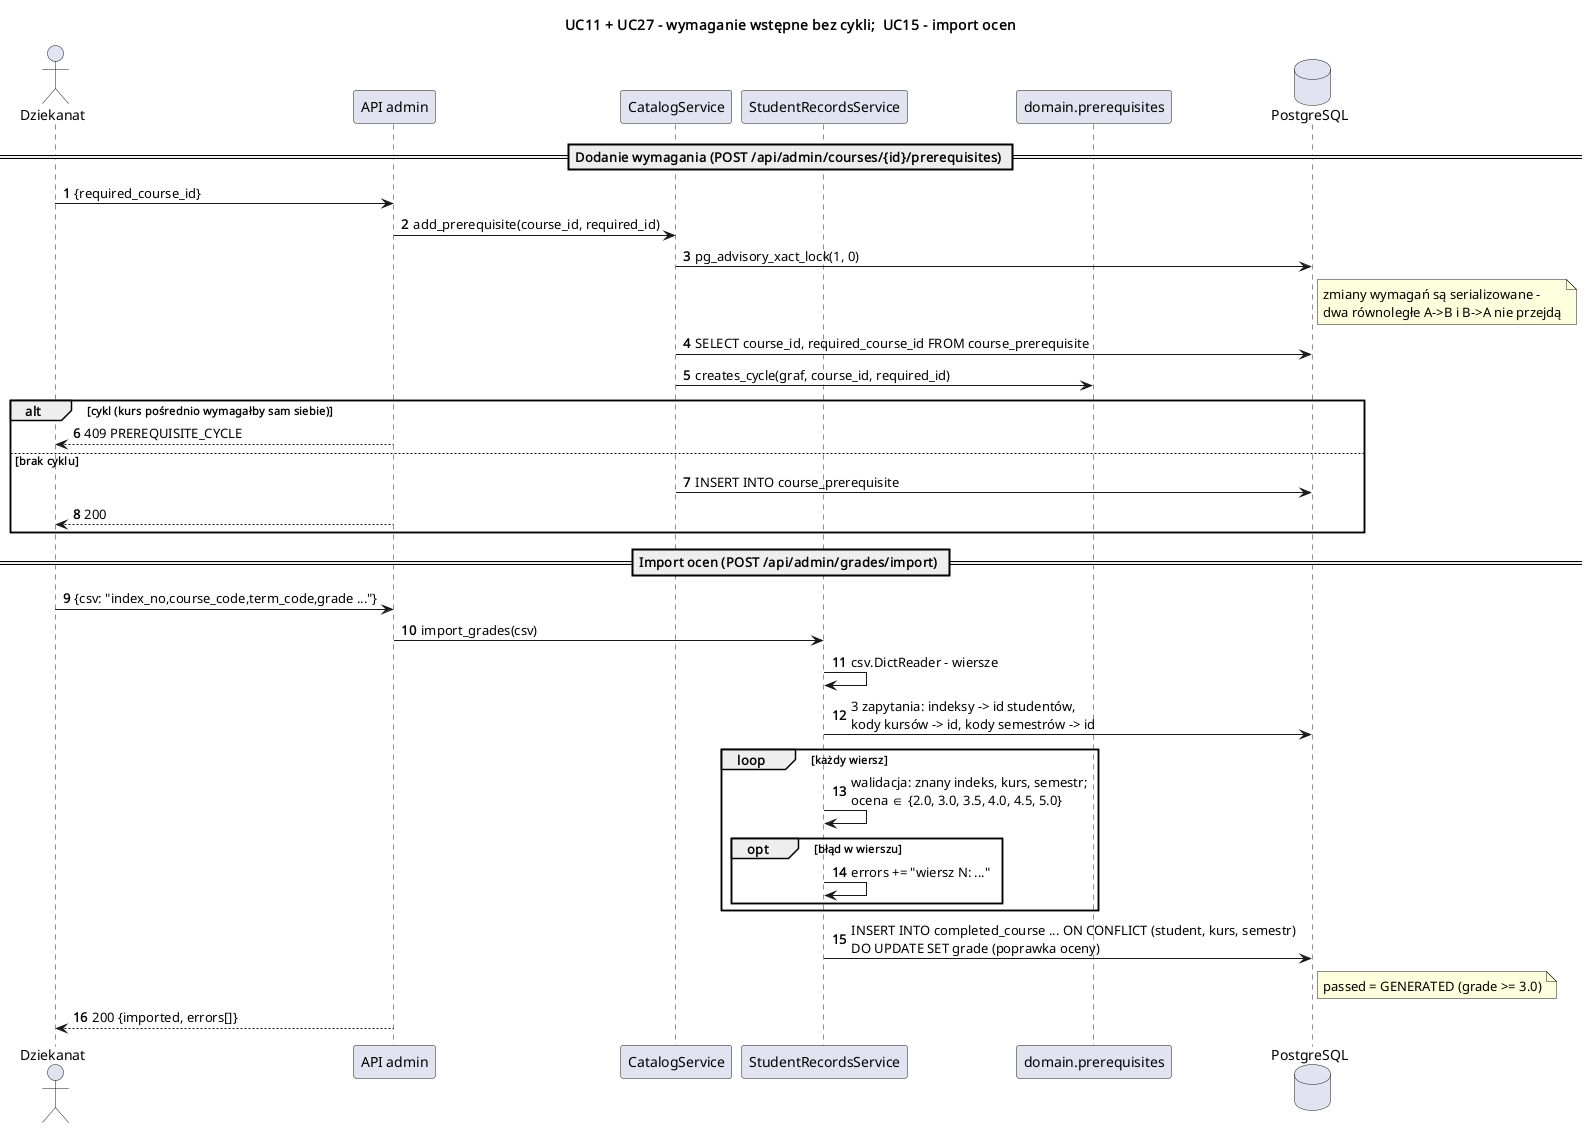
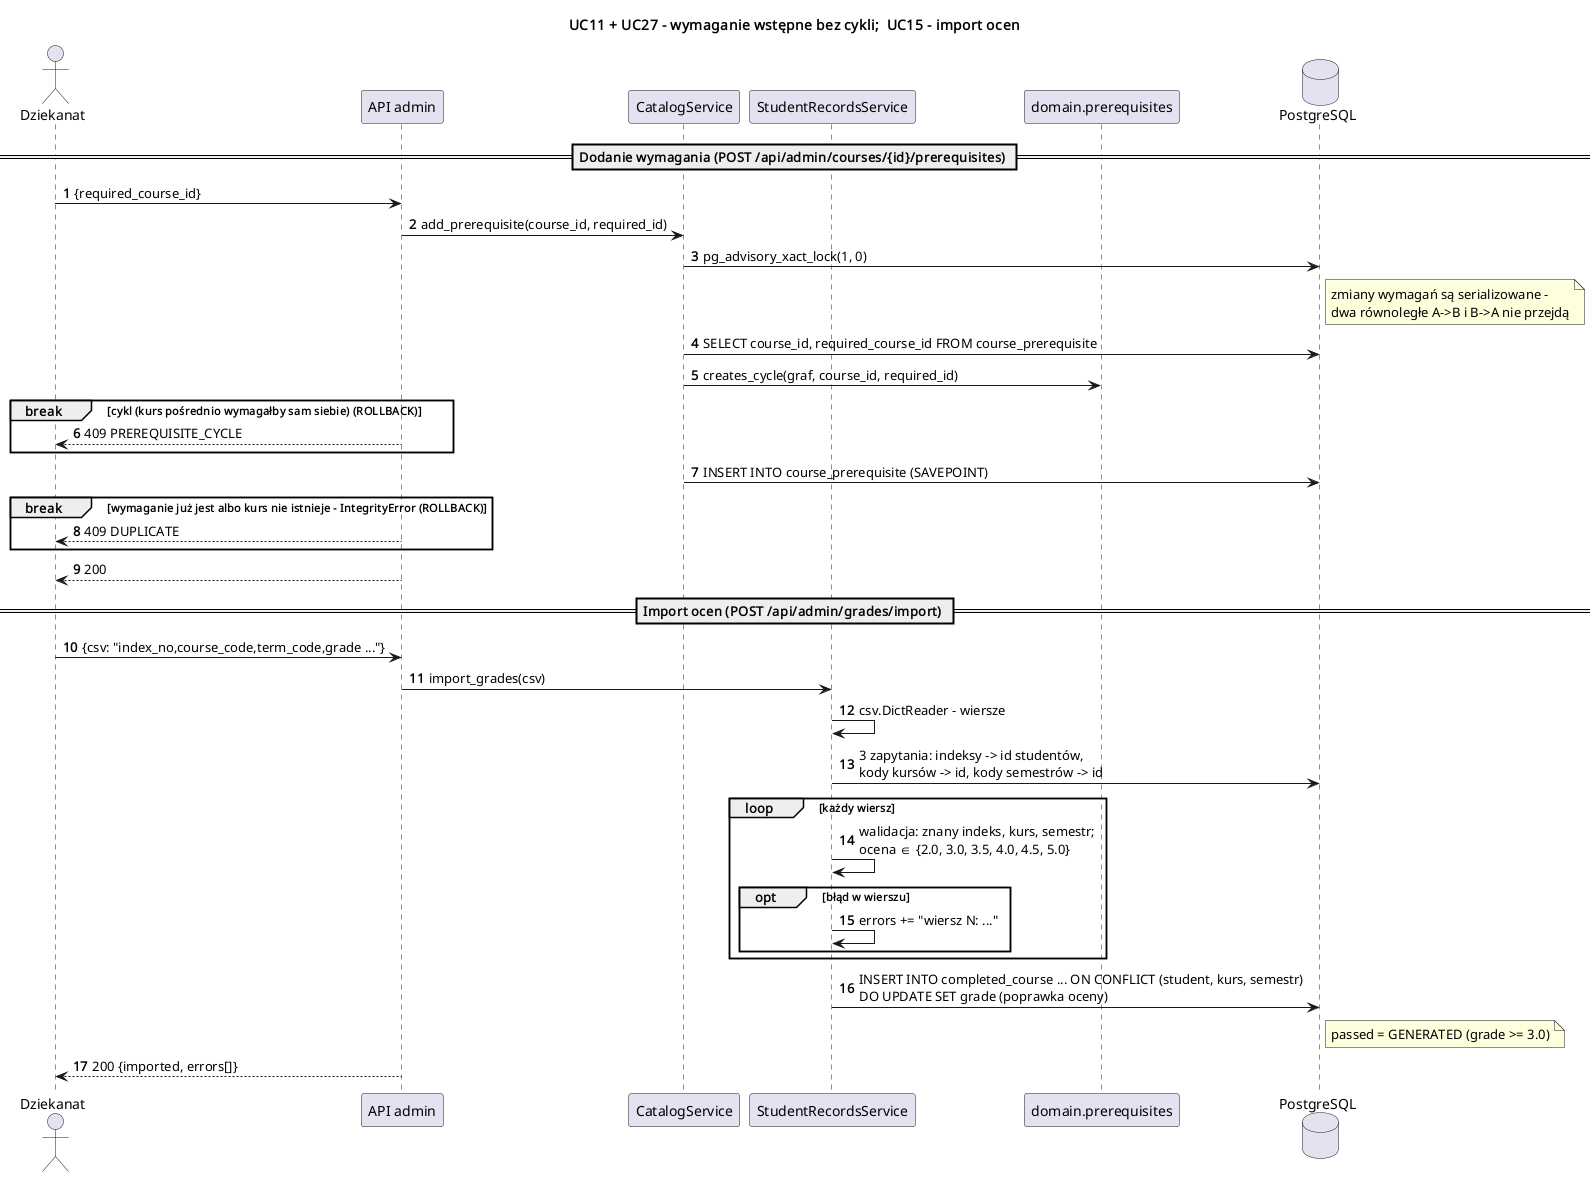
Etap 3: spójność diagramów z kodem i README (recenzja main)
- UC: prowadzący i dziekanat połączeni z UC1 i UC21; UC9 jako <<extend>>
  także dla UC6 (punkt rozszerzenia „zwolnione miejsce”); usunięte
  abstrakcyjne „Operacja studenta/pracownika” – UC0 połączony z aktorami;
  diagram studenta w układzie z góry na dół (smetana ucinał rysunek)
- klasy_infrastruktura: TooManyRequests/Overloaded w app/traffic.py,
  dodane Unauthorized i BadCredentials (401), pełna lista endpointów admina
- klasy_skrot: SeatState.room_seats, Refusal.details
- klasy_serwisy: brakujące metody Loaders i QueryService
- harmonogram: 404 SECTION_NOT_FOUND / ROOM_NOT_FOUND (także README UC12)
- wymagania: 409 DUPLICATE, błędy jako break

diff --git a/etap3/README.md b/etap3/README.md
@@ -108,8 +108,9 @@ osobny proces workera i PostgreSQL jako jedyne źródło prawdy.
 
 ![przypadki użycia – administracja](diagramy/przypadki_uzycia_administracja.png)
 
-Notacja jak w etapie 2: abstrakcyjne *Operacja studenta / pracownika* (uogólnienie, każda
-`<<include>>` UC0), `<<include>>` – zawsze, `<<extend>>` – warunkowo w nazwanym punkcie.
+Notacja: UC0 (logowanie) jest połączony z każdym aktorem-osobą – pozostałe przypadki wymagają
+zalogowania i właściwej roli; `<<include>>` – zawsze, `<<extend>>` – warunkowo w nazwanym punkcie
+(np. UC9 rozszerza UC6, UC13 i UC14, gdy zwolni się miejsce, a ktoś czeka).
 Nowe przypadki: UC19–UC27.
 
 ### Wszystkie przypadki użycia
@@ -131,7 +132,7 @@ UC25 (przez worker) i UC26 wymaga zalogowania (401) i właściwej roli (403).
 | UC9 | Awansuj z listy | system | (w UC6, UC13, UC14) | wolne miejsce → kolejni oczekujący `PROMOTED` albo `SKIPPED` z powodem; powiadomienia | (ponowienie przy 55P03) |
 | UC10 | Listy studentów grupy | prowadzący, dziekanat | `GET /api/sections/{s}/roster` | prowadzący tylko swoich grup → zapisani i oczekujący (kolejność); eksport CSV w SPA | `FORBIDDEN`, `SECTION_NOT_FOUND` |
 | UC11 | Kursy i wymagania | dziekanat | `POST/PATCH /api/admin/courses`, `…/prerequisites` | → kurs / wymaganie | `DUPLICATE`, `PREREQUISITE_CYCLE`, `COURSE_NOT_FOUND` |
-| UC12 | Grupy, sale, harmonogram | dziekanat | `POST /api/admin/sections`, `…/meetings`, `…/lecturers`, `rooms` | sala ≥ limit grupy, brak kolizji sali i prowadzącego → grupa / termin / przypisanie | `BAD_TIME`, `ROOM_TOO_SMALL`, `ROOM_BUSY`, `LECTURER_BUSY`, `LECTURER_NOT_FOUND`, `DUPLICATE` |
+| UC12 | Grupy, sale, harmonogram | dziekanat | `POST /api/admin/sections`, `…/meetings`, `…/lecturers`, `rooms` | sala ≥ limit grupy, brak kolizji sali i prowadzącego → grupa / termin / przypisanie | `BAD_TIME`, `ROOM_TOO_SMALL`, `ROOM_BUSY`, `LECTURER_BUSY`, `SECTION_NOT_FOUND`, `ROOM_NOT_FOUND`, `LECTURER_NOT_FOUND`, `DUPLICATE` |
 | UC13 | Zmień limit | dziekanat | `PATCH /api/admin/sections/{s}` | zapisani ≤ limit ≤ sala → nowy limit, UC9 | `BELOW_ENROLLED`, `ROOM_FULL` |
 | UC14 | Zapisz / wypisz (decyzja) | dziekanat | `POST /api/admin/enrollments`, `DELETE …/{st}/{s}` | bez tury i wymagań; kolizje i typ zawsze; pełna grupa → limit +1 (≤ sala) | `ALREADY_ENROLLED`, `CONFLICT`, `SAME_KIND`, `ROOM_FULL`, `NOT_ENROLLED` |
 | UC15 | Importuj oceny | dziekanat | `POST /api/admin/grades/import` | CSV `index_no,course_code,term_code,grade` → liczba zaimportowanych, lista błędnych wierszy; ponowny import nadpisuje ocenę | `VALIDATION` |
